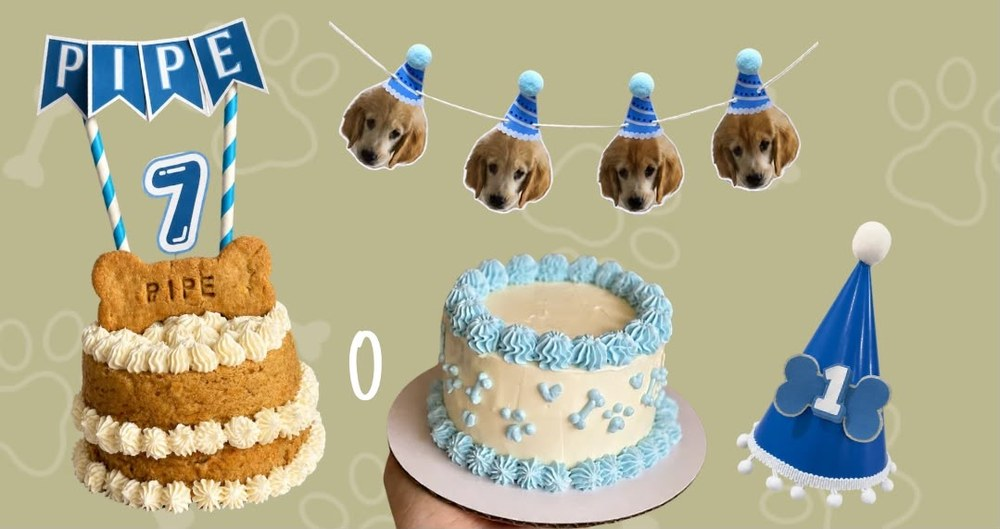
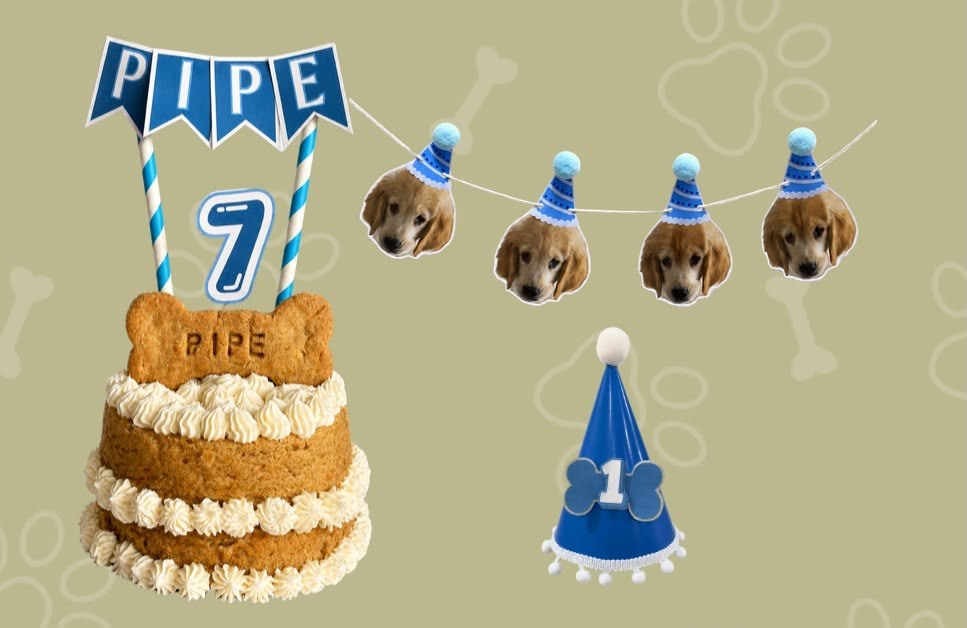
Add gorrito hat photo to slide, clean up Barki Silver naked-style photo
- Gorrito: add a second slide photo of the finished hat
- Barki Silver: replace the naked-style slide photo with a cleaner
  crop that isolates just that cake (no stray countdown digit or
  frosted cake bleeding into frame)

diff --git a/src/data/catalog.ts b/src/data/catalog.ts
@@ -13,6 +13,7 @@ import imgDoggieTreatsSky from "../assets/products/doggie-treats-sky.jpg";
 import imgCanastita from "../assets/products/canastita.jpg";
 import imgBanderines from "../assets/products/banderines.jpg";
 import imgGorritoTallas from "../assets/products/gorrito-tallas.jpg";
+import imgGorritoHat from "../assets/products/gorrito-hat.jpg";
 import imgPromoSeptiembre from "../assets/products/promo-septiembre.jpg";
 import imgNakedStyle4 from "../assets/products/naked-style-4-3capas.jpg";
 import imgGatoMiniPupcake1 from "../assets/products/gato-mini-pupcake-1.jpg";
@@ -256,7 +257,7 @@ export const CATALOG: Product[] = [
     category: "decor",
     name: "Gorrito personalizado",
     price: 2.75,
-    images: [imgGorritoTallas],
+    images: [imgGorritoTallas, imgGorritoHat],
     choice: { label: "Talla", options: ["XS", "S", "L"] },
   },
   {
